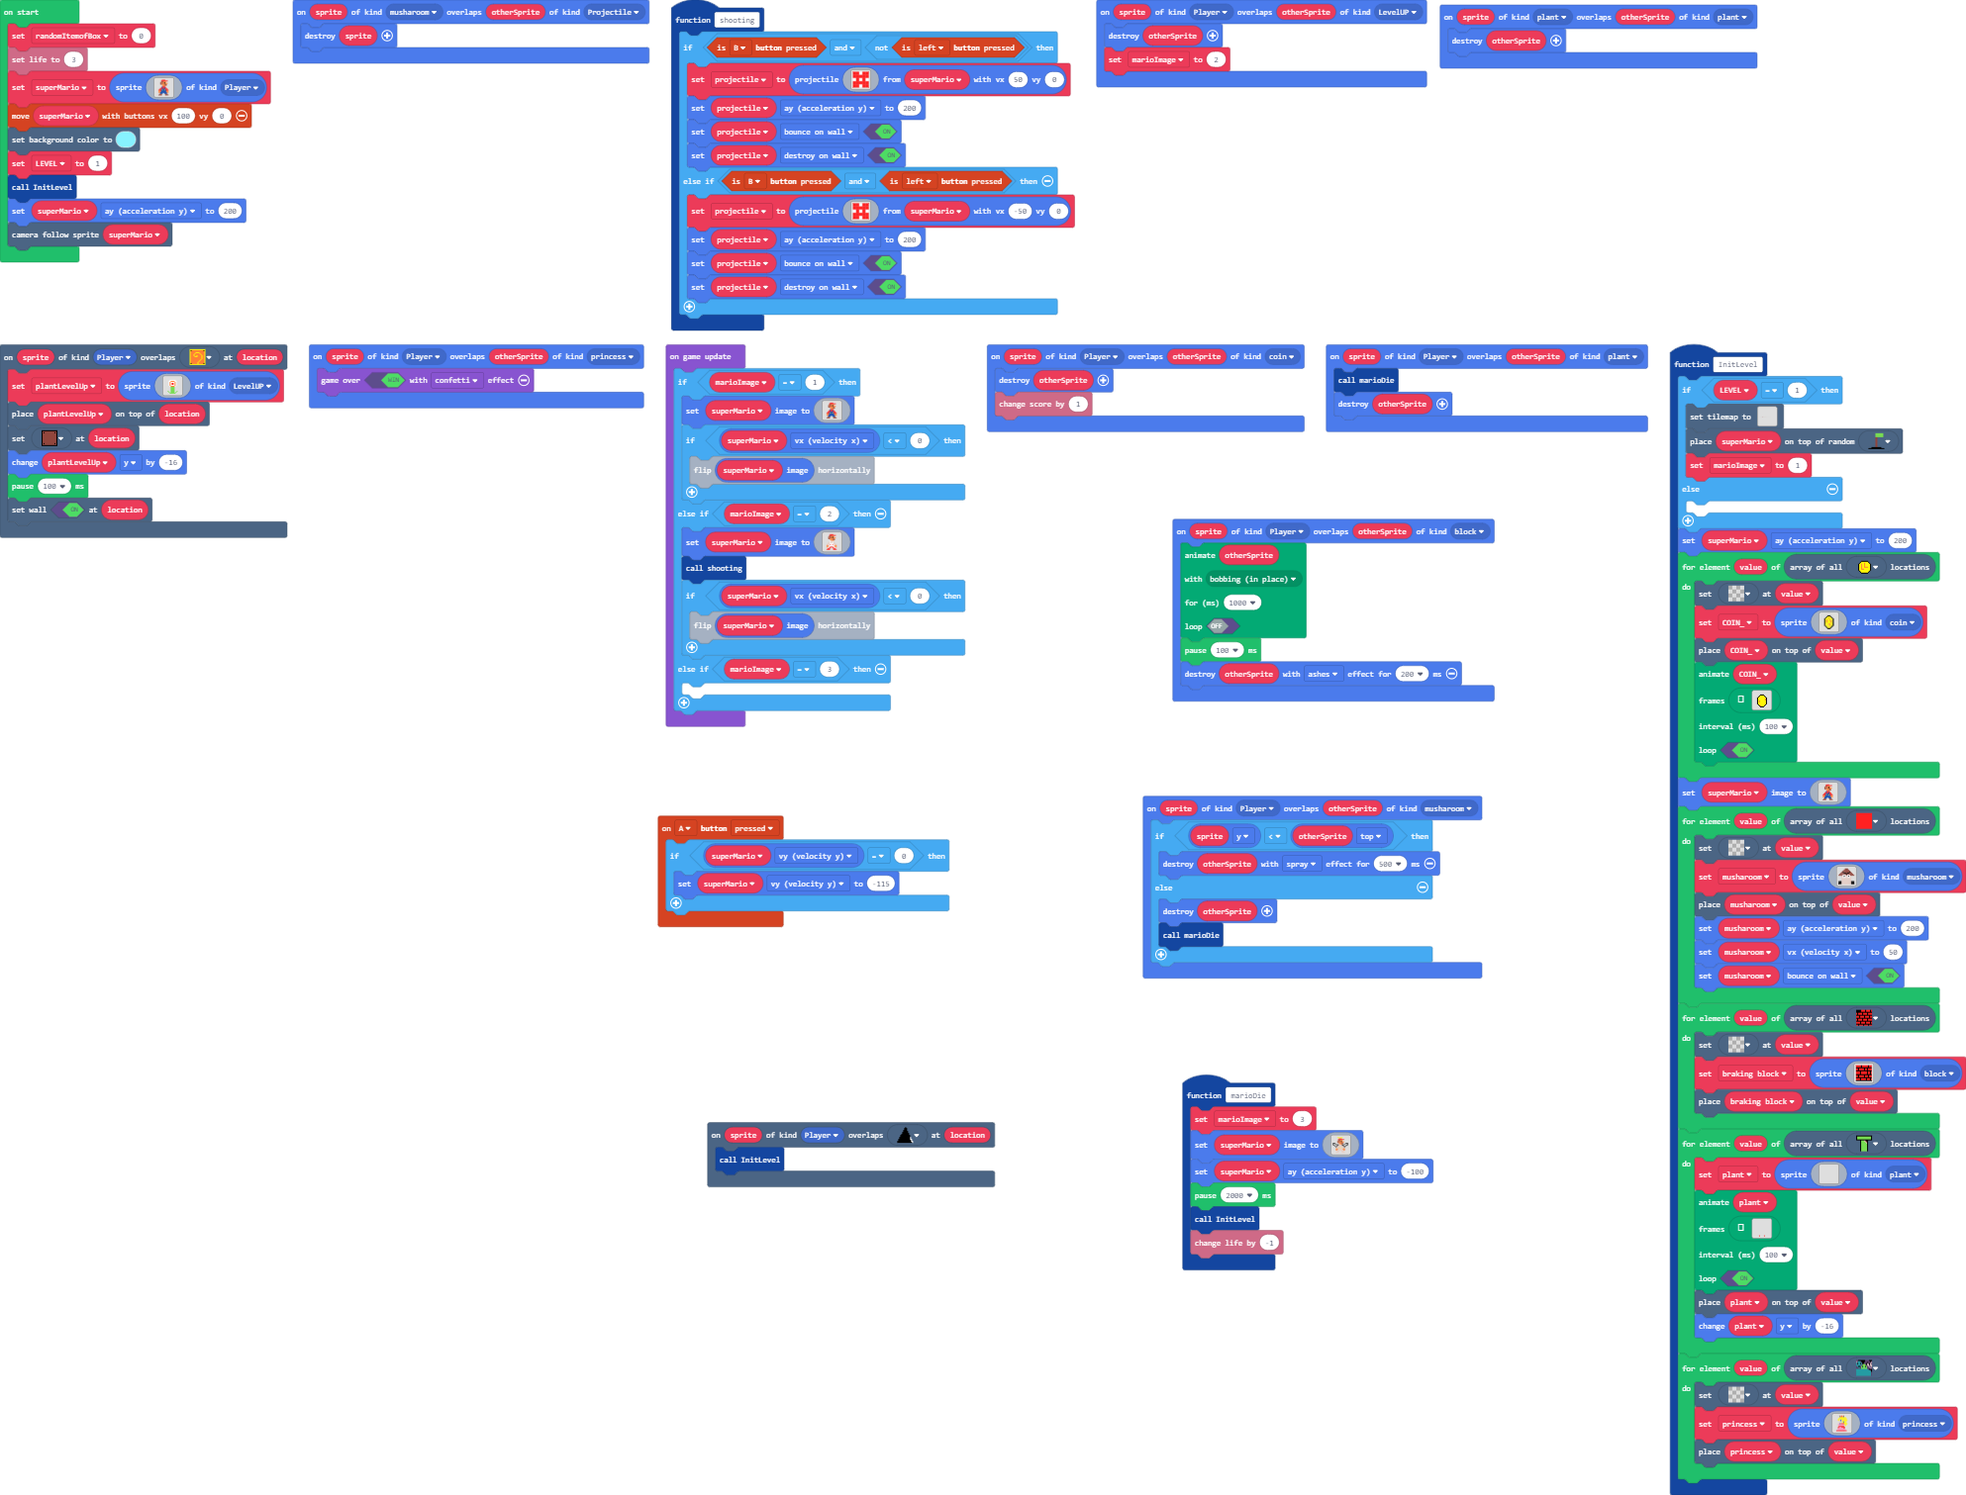
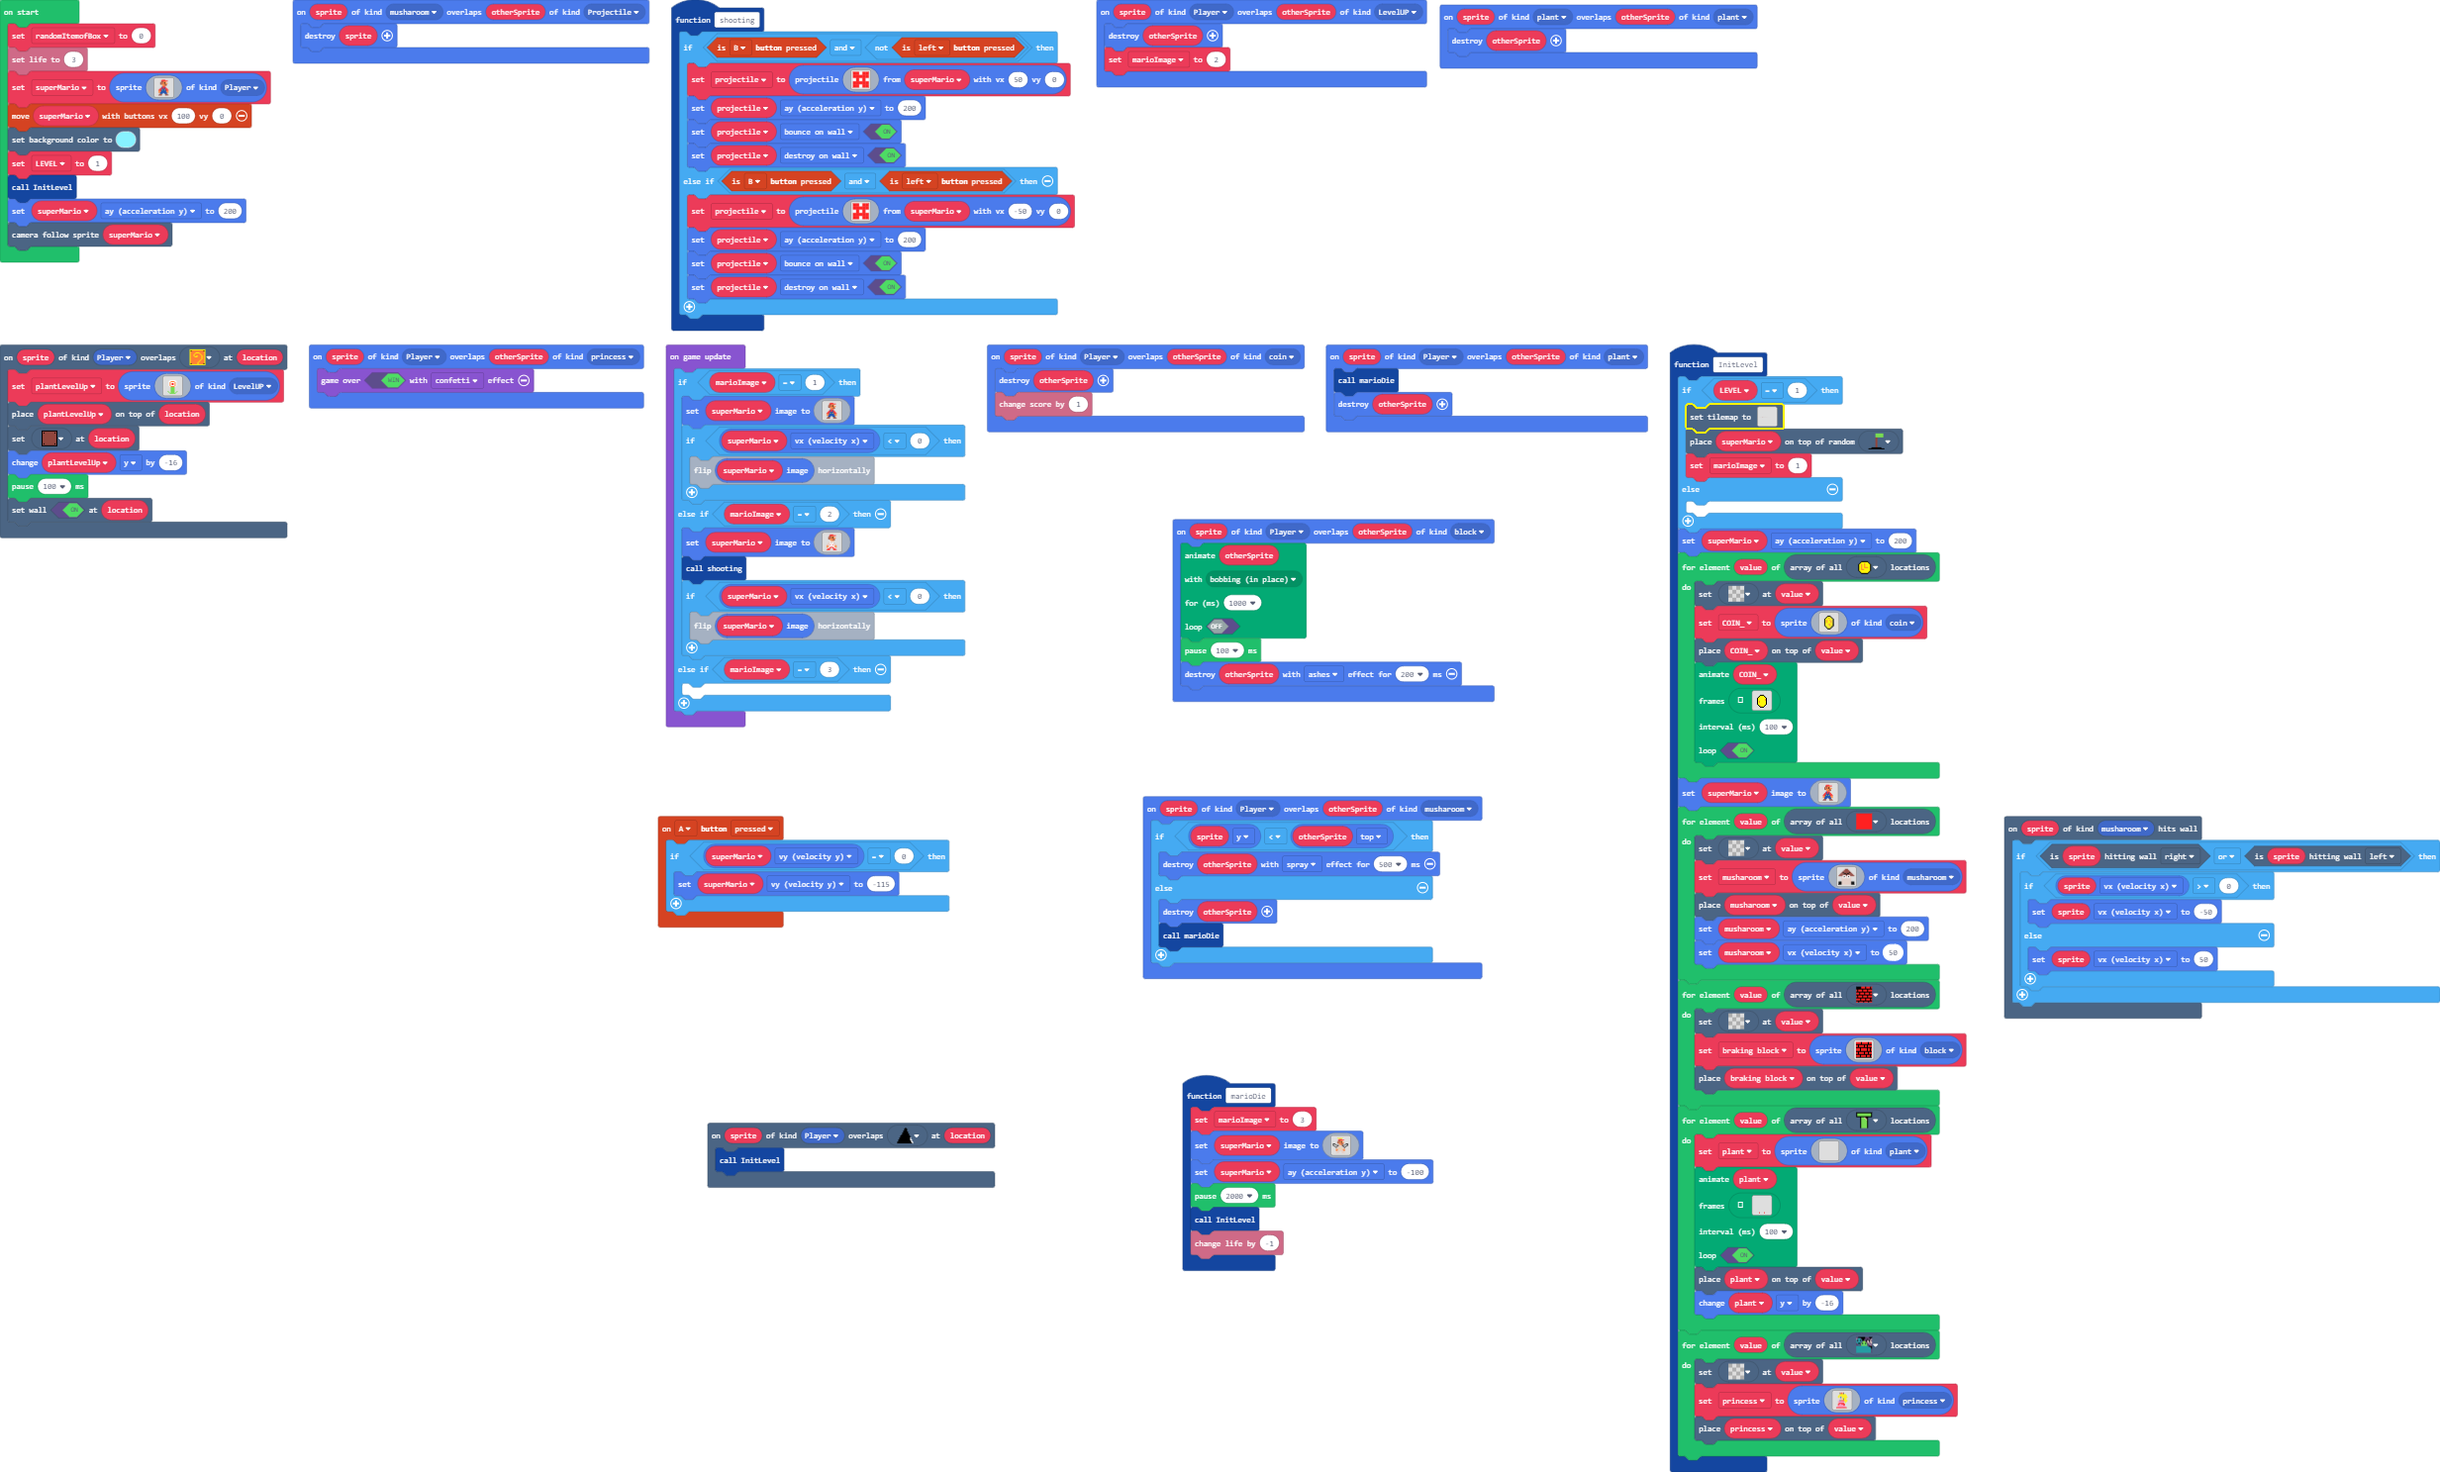
Update main.blocks, main.ts

diff --git a/main.ts b/main.ts
@@ -296,6 +296,15 @@ sprites.onOverlap(SpriteKind.Player, SpriteKind.musharoom, function (sprite, oth
 scene.onOverlapTile(SpriteKind.Player, myTiles.tile7, function (sprite, location) {
     InitLevel()
 })
+scene.onHitWall(SpriteKind.musharoom, function (sprite) {
+    if (sprite.isHittingTile(CollisionDirection.Right) || sprite.isHittingTile(CollisionDirection.Left)) {
+        if (sprite.vx > 0) {
+            sprite.vx = -50
+        } else {
+            sprite.vx = 50
+        }
+    }
+})
 function InitLevel () {
     if (LEVEL == 1) {
         tiles.setTilemap(tiles.createTilemap(
@@ -540,7 +549,6 @@ f f f d d d d d d d d d f f f
         tiles.placeOnTile(musharoom, value)
         musharoom.ay = 200
         musharoom.vx = 50
-        musharoom.setFlag(SpriteFlag.BounceOnWall, true)
     }
     for (let value of tiles.getTilesByType(myTiles.tile5)) {
         tiles.setTileAt(value, myTiles.tile0)
